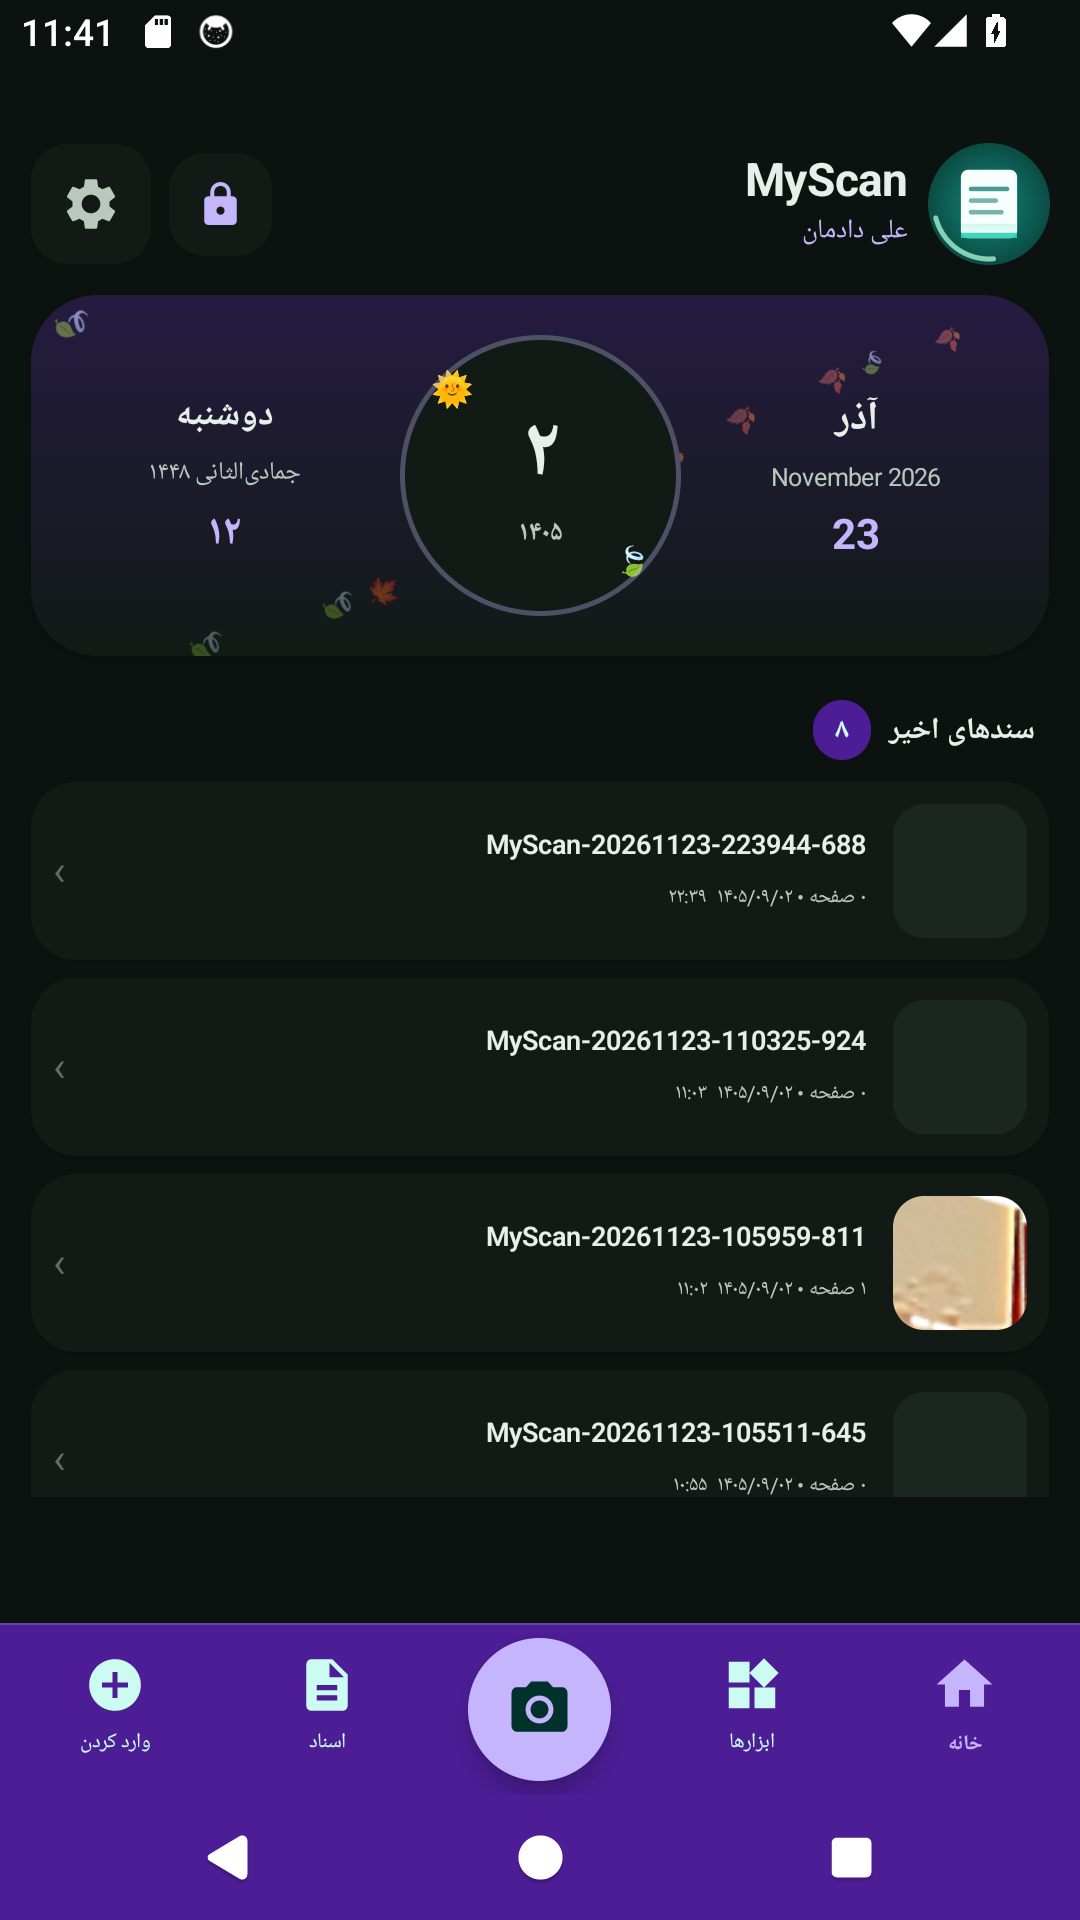
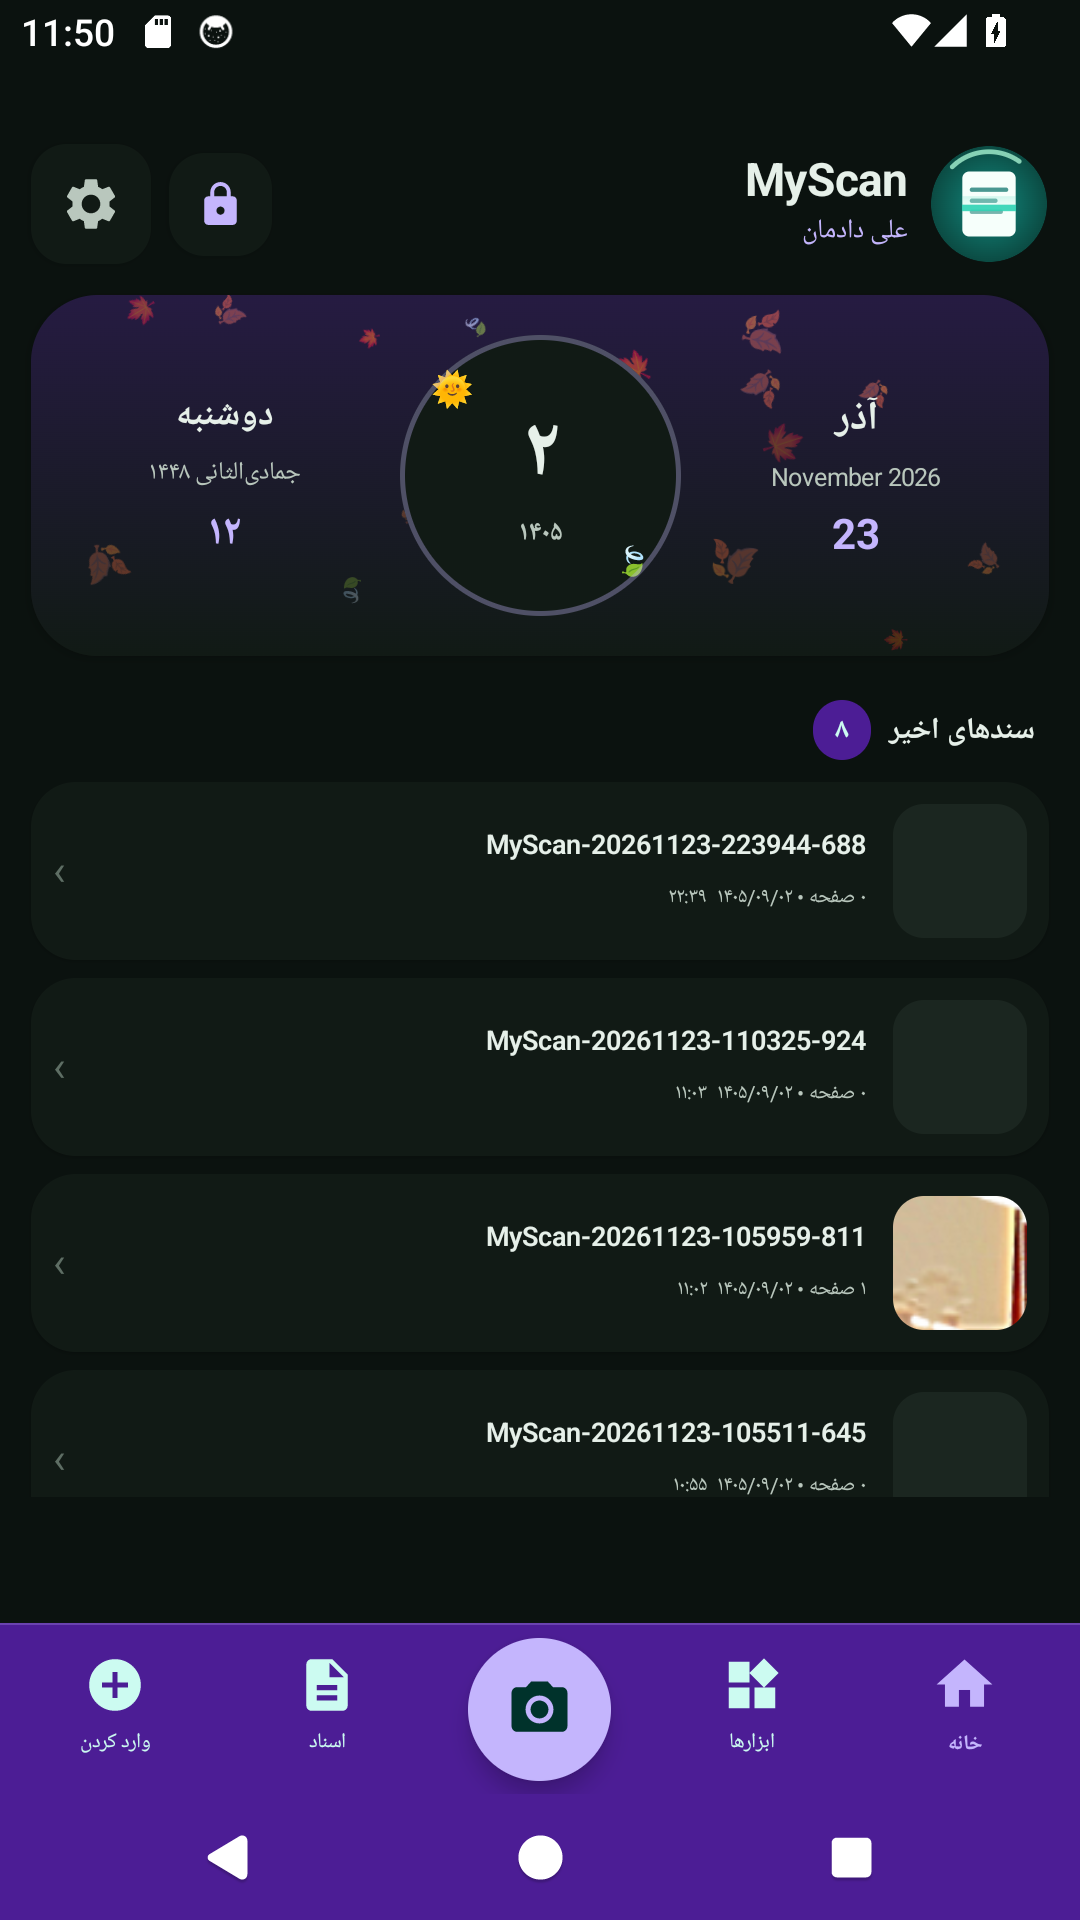
feat: randomized natural seasonal particles with per-item path, speed and rotation

diff --git a/app/src/main/java/ir/scanfa/app/ui/SeasonParticles.kt b/app/src/main/java/ir/scanfa/app/ui/SeasonParticles.kt
@@ -10,56 +10,91 @@ import androidx.compose.foundation.layout.offset
 import androidx.compose.material3.Text
 import androidx.compose.runtime.Composable
 import androidx.compose.runtime.getValue
+import androidx.compose.runtime.remember
 import androidx.compose.ui.Modifier
 import androidx.compose.ui.graphics.graphicsLayer
 import androidx.compose.ui.unit.IntOffset
-import androidx.compose.ui.unit.dp
 import androidx.compose.ui.unit.sp
+import kotlin.math.PI
+import kotlin.math.sin
 import kotlin.math.roundToInt
+import kotlin.random.Random
+
+private data class SeasonItem(
+    val emoji: String,
+    val baseX: Float,
+    val phase: Float,
+    val speed: Float,
+    val sway: Float,
+    val swayFreq: Float,
+    val size: Float,
+    val spin: Float,
+    val alpha: Float
+)
 
 /**
- * بارش آرام و تزئینی داخل کارت تاریخ؛
- * پاییز برگ، زمستان برف، بهار گل و تابستان ستاره/نور.
+ * بارش واقعی و تصادفی برگ/برف/گل داخل کارت تاریخ؛
+ * هر گلبرگ مسیر، سرعت، اندازه و چرخش جداگانه دارد.
  */
 @Composable
 fun SeasonParticles(month: Int, modifier: Modifier = Modifier) {
     val emojis = when (month) {
-        1, 2, 3 -> listOf("🌸", "🌺", "🌼", "❀")
-        4, 5, 6 -> listOf("☀", "✨", "🌤", "☀")
-        7, 8, 9 -> listOf("🍂", "🍁", "🍃")
-        else -> listOf("❄", "❅", "❄")
+        1, 2, 3 -> listOf("🌸", "🌺", "🌼", "🌷")
+        4, 5, 6 -> listOf("✨", "☀", "🌤", "☀")
+        7, 8, 9 -> listOf("🍂", "🍁", "🍃", "🍂")
+        else -> listOf("❄", "❅", "❄", "✻")
     }
     val count = when (month) {
-        7, 8, 9 -> 12
-        10, 11, 12 -> 14
-        else -> 10
+        7, 8, 9 -> 18
+        10, 11, 12 -> 22
+        1, 2, 3 -> 14
+        else -> 12
+    }
+
+    val items = remember(month) {
+        val random = Random(month * 7919L + 13L)
+        List(count) { index ->
+            SeasonItem(
+                emoji = emojis[index % emojis.size],
+                baseX = random.nextFloat(),
+                phase = random.nextFloat(),
+                speed = 0.55f + random.nextFloat() * 0.9f,
+                sway = 0.02f + random.nextFloat() * 0.09f,
+                swayFreq = 0.6f + random.nextFloat() * 1.6f,
+                size = 10f + random.nextFloat() * 12f,
+                spin = (random.nextFloat() - 0.5f) * 2f,
+                alpha = 0.55f + random.nextFloat() * 0.4f
+            )
+        }
     }
 
     val transition = rememberInfiniteTransition(label = "seasonParticles")
     val t by transition.animateFloat(
         initialValue = 0f,
         targetValue = 1f,
-        animationSpec = infiniteRepeatable(tween(16000, easing = LinearEasing)),
+        animationSpec = infiniteRepeatable(tween(18000, easing = LinearEasing)),
         label = "seasonT"
     )
 
     BoxWithConstraints(modifier) {
         val width = constraints.maxWidth.toFloat()
         val height = constraints.maxHeight.toFloat()
-        repeat(count) { i ->
-            val seed = ((i * 37) % 100) / 100f
-            val local = ((t + seed) % 1f)
-            val x = width * (0.05f + seed * 0.9f) + (width * 0.05f) * kotlin.math.sin((t + seed) * 6.28f)
-            val y = height * local
-            val size = 11f + seed * 6f
+
+        items.forEach { item ->
+            val local = ((t * item.speed + item.phase) % 1f)
+            val swayOffset = sin((t * item.swayFreq + item.phase) * 2f * PI).toFloat() * width * item.sway
+            val wind = width * 0.04f * (local - 0.5f)
+            val x = width * item.baseX + swayOffset + wind
+            val y = height * local - 16f
+
             Text(
-                text = emojis[i % emojis.size],
-                fontSize = size.sp,
+                text = item.emoji,
+                fontSize = item.size.sp,
                 modifier = Modifier
-                    .offset { IntOffset(x.roundToInt(), (y - 14.dp.value * 2).roundToInt()) }
+                    .offset { IntOffset(x.roundToInt(), y.roundToInt()) }
                     .graphicsLayer {
-                        rotationZ = t * 360f * (0.3f + seed)
-                        alpha = (0.85f - local * 0.15f).coerceIn(0.4f, 2f)
+                        rotationZ = (item.phase * 360f) + local * 300f * item.spin
+                        alpha = (item.alpha * (1f - local * 0.25f)).coerceIn(0.25f, 1f)
                     }
             )
         }
